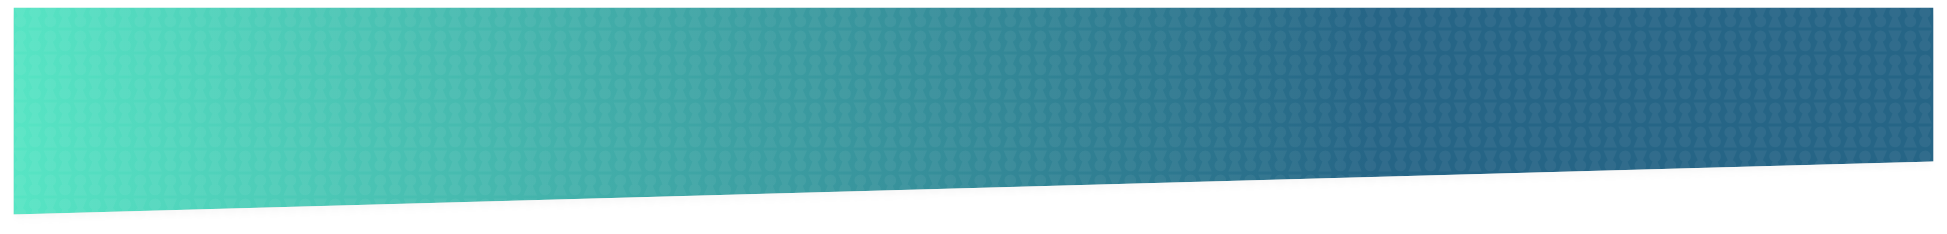
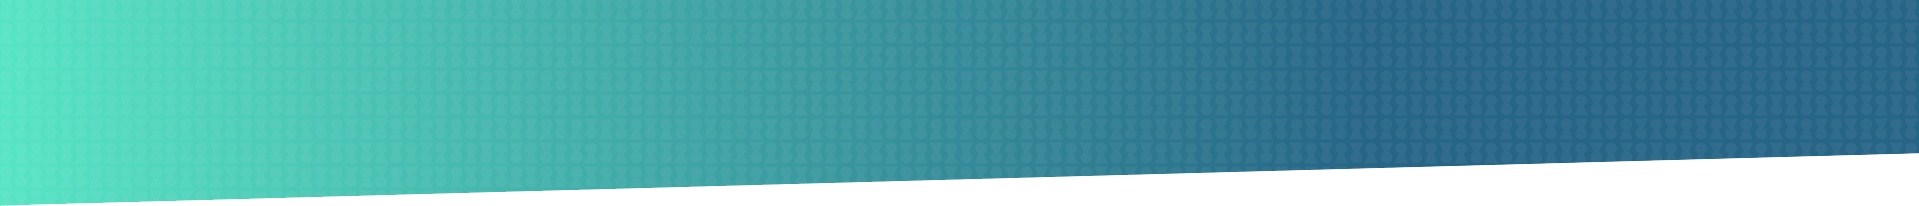
redesign second layer nav

Changed region(s): [[0.0, 0.0, 1.0, 1.0]]

diff --git a/src/components/SecondNav.js b/src/components/SecondNav.js
@@ -5,25 +5,37 @@ class SecondNav extends Component {
 
   render() {
     return (
-    <div className="navbar navbar-default" id="navbar-second">
-      <ul className="nav navbar-nav no-border visible-xs-block">
-        <li><a className="text-center collapsed" data-toggle="collapse" data-target="#navbar-second-toggle"><i className="icon-menu7"></i></a></li>
-      </ul>
-
-      <div className="navbar-collapse collapse" id="navbar-second-toggle">
-        <ul className="nav navbar-nav">
-          <li>
-            <Link to="/jackpots"><i className="icon-cash3 position-left"></i> Jackpots</Link>
-          </li>
-          <li>
-            <Link to="/games"><i className="fa fa-gamepad position-left"></i> Games</Link>
-          </li>
-          <li>
-            <Link to="/referral"><i className="fa fa-handshake position-left"></i> Free Plays</Link>
-          </li>
+      <div className="navbar navbar-default secondbar" id="navbar-second">
+        <ul className="nav navbar-nav no-border visible-xs-block">
+          <li><a className="text-center collapsed" data-toggle="collapse" data-target="#navbar-second-toggle"><i className="icon-menu7"></i></a></li>
         </ul>
+
+        <div className="navbar-collapse collapse" id="navbar-second-toggle">
+          <ul className="nav navbar-nav">
+            <li className="text-center">
+              <Link to="/jackpots">
+                <i className="fa fa-money-bill-alt"></i>
+                <br />
+                Jackpots
+              </Link>
+            </li>
+            <li className="text-center">
+              <Link to="/games">
+                <i className="fa fa-trophy"></i>
+                <br />
+                Games
+              </Link>
+            </li>
+            <li className="text-center">
+              <Link to="/referral">
+                <i className="fa fa-handshake"></i>
+                <br />
+                Free Plays
+              </Link>
+            </li>
+          </ul>
+        </div>
       </div>
-    </div>
     )
   }
 }

diff --git a/src/components/UserNav.js b/src/components/UserNav.js
@@ -123,7 +123,7 @@ class UserNav extends Component {
     }
     const showTicketCount = balance > 0 ? "" : " hide"
     return (
-      <div className="navbar navbar-default">
+      <div className="navbar navbar-default firstbar" style={{backgroundColor: "#266586"}}>
         <div className="navbar-header">
           <Link className="navbar-brand" to="/"><img src="/img/logo.png" alt="" /></Link>
 
@@ -134,8 +134,6 @@ class UserNav extends Component {
 
         <div className="navbar-collapse collapse" id="navbar-mobile">
 
-          <p className="navbar-text"><span className="label bg-success-400">Jackpot ${(jackpot * btcPrice.usd).toFixed(2)} - <Countdown date={endtime} /></span></p>
-
           <ul className="nav navbar-nav navbar-right">
             <li>
               <a className="btn btn-icon" onClick={this.toggleModal}>
@@ -143,14 +141,14 @@ class UserNav extends Component {
                 <span className={"badge bg-warning-400" + showTicketCount}>{balance || 0}</span>
               </a>
             </li>
-            <li className="dropdown dropdown-user">
+            <li className="dropdown dropdown-user" style={{width: "180px"}}>
               <a className="dropdown-toggle" data-toggle="dropdown">
                 <img src={avatar} alt="" />
                 <span>{me.username || "unknown"}</span>
                 <i className="caret"></i>
               </a>
 
-              <ul className="dropdown-menu dropdown-menu-right">
+              <ul style={{marginTop: 0}} className="dropdown-menu dropdown-menu-right">
                 <li><Link to="/profile"><i className="icon-user-plus"></i> Profile</Link></li>
                 <li><Link to="/wallet"><i className="icon-coins"></i> Wallet</Link></li>
                 <li className="divider"></li>

diff --git a/public/assets/css/style.css b/public/assets/css/style.css
@@ -5,12 +5,14 @@ body {
     background-color: #fdfbf0;
 }
 
-.navbar-default{
+.firstbar{
+    background: linear-gradient(to right, #57e5c4, #266586);
     background-image: url("/assets/images/header_footer.png");
-    height: 155px;
+    background-repeat: no-repeat;
+    height: 140px;
     background-size: contain;
-    background-color: #fdfbf0;
     border-color: #fdfbf0;
+    border-width: 0px;
 }
 
 .key-pattern {
@@ -40,18 +42,36 @@ body {
     width: 100%;
 }
 
-.navbar-default .navbar-nav > li > a:hover {
+.firstbar .navbar-nav > li > a:hover {
     background-color: transparent;
     color: white;
 }
 
-.navbar-default .navbar-nav > li > a {
+.firstbar .navbar-nav > li > a {
     color: white;
     font-size: 10px;
-    margin: 30px 0px;
+    margin-top: 30px;
 }
 
 .navbar-brand > img {
-    margin-top: 15px;
-    height: 60px;
+    margin-top: 25px;
+    margin-left: 20px;
+    height: 30px;
 }
+
+.secondbar {
+    background-image: none;
+    background-color: #266586;
+    color: white;
+}
+
+.secondbar .navbar-nav > li > a:hover {
+    background-color: transparent;
+    color: white;
+}
+
+.secondbar .navbar-nav > li > a {
+    color: white;
+}
+
+

diff --git a/src/components/GuestNav.js b/src/components/GuestNav.js
@@ -5,7 +5,7 @@ class GuestNav extends Component {
 
   render() {
     return (
-      <div className="navbar navbar-default navbar-custom">
+      <div className="navbar navbar-default firstbar" style={{backgroundColor: "#fdfbf0"}}>
         <div className="navbar-header">
           <Link className="navbar-brand" to="/"><img src="/img/logo.png" alt="" /></Link>
 
